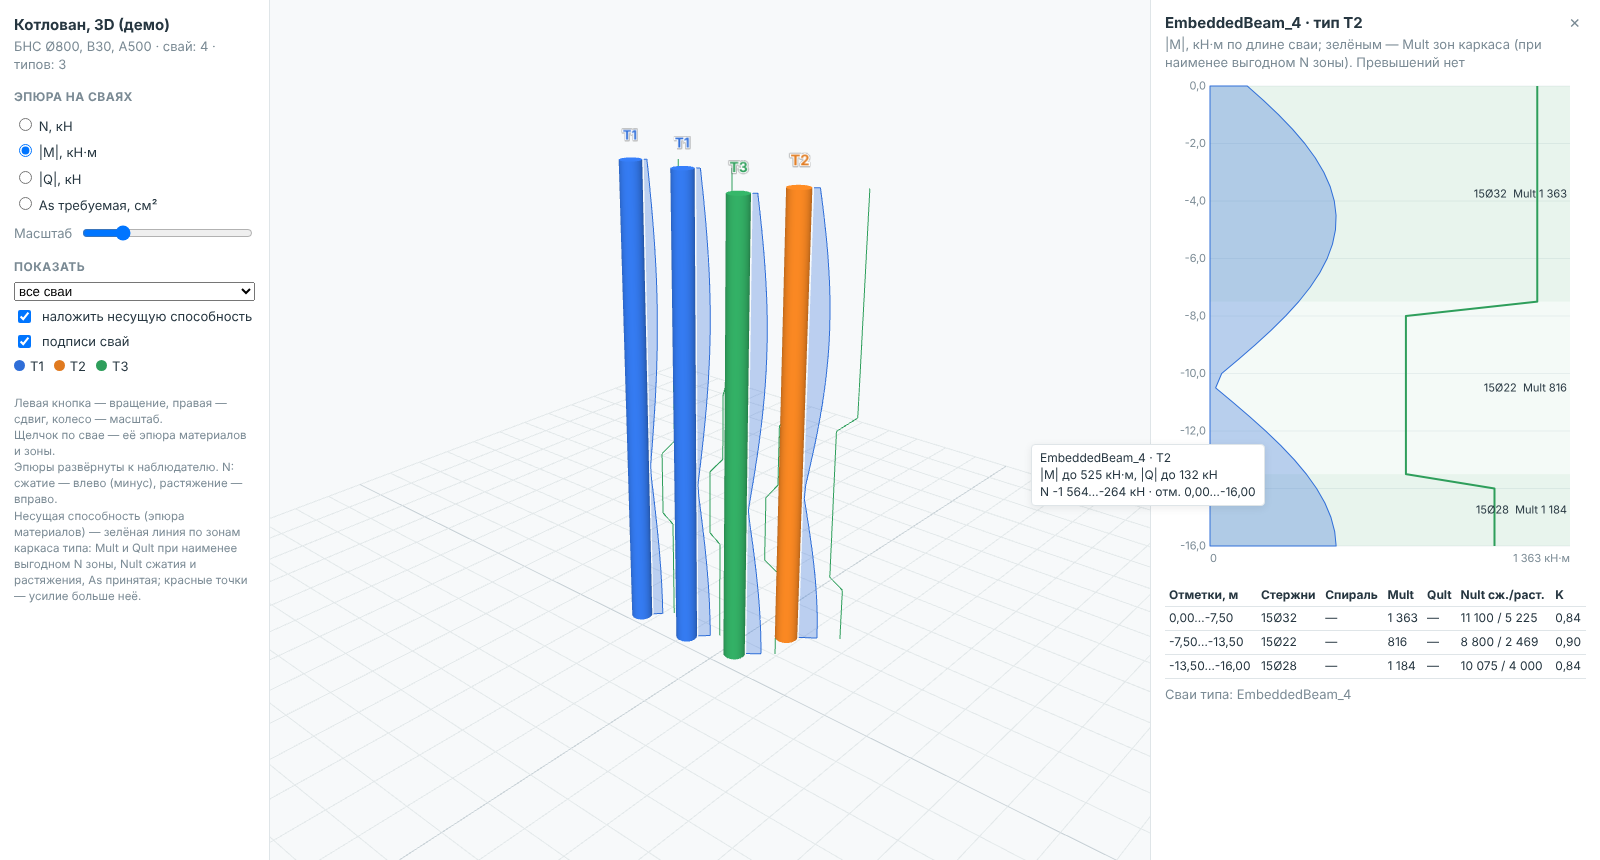
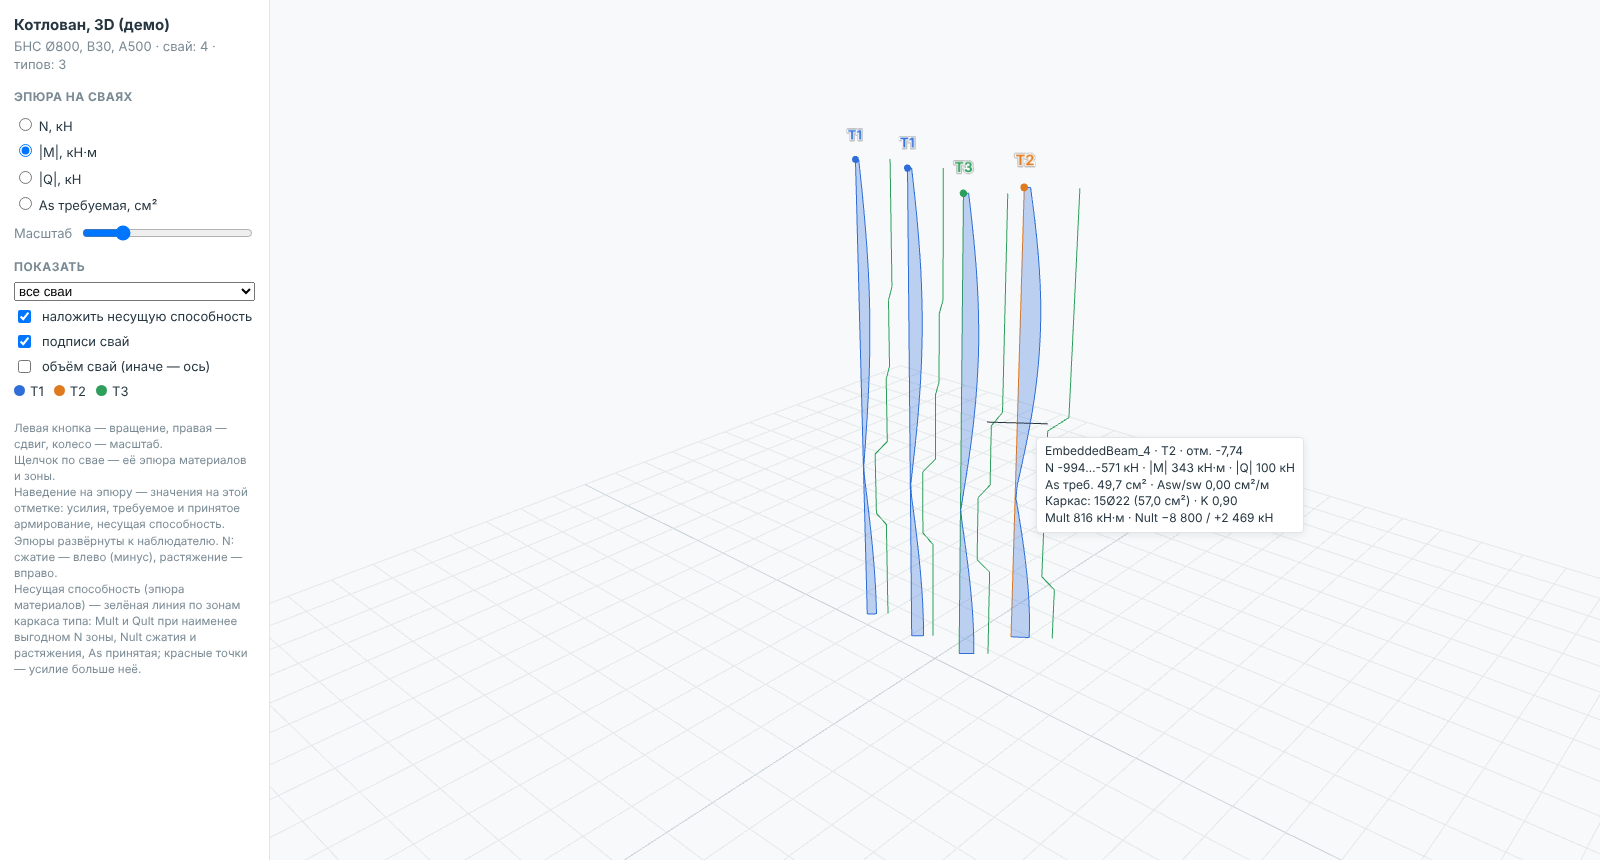
3D view: piles as axes, values under the pointer; envelope N = 0 of a pile not yet made is left out
- Piles are drawn as their axes by default (solids on a switch); diagrams
  from the axis.
- Hovering a diagram shows the level and the values there: N, |M|, |Q|,
  required As and Asw of the search interval, the cage of the zone with K,
  Mult, Qult, Nult; a tick marks the level.
- Envelopes with Nmax = 0 along the whole pile (phases before the pile was
  made in the branch) no longer pair N = 0 with Mmax (setting, on by
  default, reported in the UI).

Claude-Session: https://claude.ai/code/session_01493zrUM1r8veYKFHLaeuv4

diff --git a/src/SectionCalc/Viewer3D/viewer.html b/src/SectionCalc/Viewer3D/viewer.html
@@ -42,8 +42,10 @@
     <div class="row"><select id="typeFilter"></select></div>
     <label class="row"><input type="checkbox" id="overlay" checked> наложить несущую способность</label>
     <label class="row"><input type="checkbox" id="labels" checked> подписи свай</label>
+    <label class="row"><input type="checkbox" id="solid"> объём свай (иначе — ось)</label>
     <div class="legend" id="legend"></div>
     <div class="hint">Левая кнопка — вращение, правая — сдвиг, колесо — масштаб.<br>Щелчок по свае — её эпюра материалов и зоны.<br>
+      Наведение на эпюру — значения на этой отметке: усилия, требуемое и принятое армирование, несущая способность.<br>
       Эпюры развёрнуты к наблюдателю. N: сжатие — влево (минус), растяжение — вправо.<br>
       Несущая способность (эпюра материалов) — зелёная линия по зонам каркаса типа: Mult и Qult при наименее выгодном N зоны,
       Nult сжатия и растяжения, As принятая; красные точки — усилие больше неё.</div>
@@ -113,11 +115,17 @@ const piles = P.map((p, i) => {
     new THREE.MeshLambertMaterial({ color: new THREE.Color(p.color) }));
   const base = at(p.x, p.y, (p.head + p.tip) / 2);
   mesh.position.copy(base); mesh.userData.index = i; scene.add(mesh);
+  // By default the pile is its axis (a bar of no thickness); the solid is kept for picking.
+  const axis = new THREE.Line(new THREE.BufferGeometry().setFromPoints([at(p.x, p.y, p.head), at(p.x, p.y, p.tip)]),
+    new THREE.LineBasicMaterial({ color: new THREE.Color(p.color) }));
+  scene.add(axis);
+  const head = new THREE.Mesh(new THREE.SphereGeometry(Math.min(p.d / 2, spacing * 0.05), 12, 8), new THREE.MeshBasicMaterial({ color: new THREE.Color(p.color) }));
+  head.position.copy(at(p.x, p.y, p.head)); scene.add(head);
   const group = new THREE.Group(); group.position.copy(at(p.x, p.y, zc)); scene.add(group);
   const label = textSprite(p.type ? `Т${p.type}` : shortName(p.name), p.color);
   label.position.copy(at(p.x, p.y, p.head + Math.max(0.6, p.d)));
   scene.add(label);
-  return { data: p, mesh, group, label };
+  return { data: p, mesh, axis, head, group, label, shown: true };
 });
 
 function shortName(n) { return n.replace(/^EmbeddedBeam_/, '').replace(/^Beam_/, ''); }
@@ -147,7 +155,13 @@ function maxOf(q) {
   return m || 1;
 }
 
-function clear(group) { while (group.children.length) { const c = group.children.pop(); c.geometry?.dispose(); c.material?.dispose(); } }
+function clear(group) {
+  for (const c of [...group.children]) {
+    group.remove(c);
+    // The hover tick is shared: it moves from pile to pile.
+    if (c !== marker) { c.geometry?.dispose(); c.material?.dispose(); }
+  }
+}
 
 function polygon(group, pts, color, opacity) {
   const shape = new THREE.Shape(pts.map(([x, y]) => new THREE.Vector2(x, y)));
@@ -175,7 +189,7 @@ function rebuild() {
   for (const pile of piles) {
     clear(pile.group);
     // The diagram starts at the surface of the pile, not at its axis hidden inside.
-    const o = pile.data.d / 2 + 0.05;
+    const o = solid() ? pile.data.d / 2 + 0.05 : 0;
     const st = pile.data.stations.filter(s => q.get(s) != null).sort((a, b) => b.z - a.z);
     if (st.length < 2) continue;
     const y = s => s.z - zc;
@@ -200,6 +214,8 @@ function rebuild() {
       dots(pile.group, withCap.filter(q.over).map(s => [x(q.get(s)), y(s)]));
     }
   }
+  // The diagrams are picked for the values at the pointer.
+  piles.forEach((pile, i) => pile.group.children.forEach(c => { if (c.isMesh) c.userData.pile = i; }));
   if (selected) showDetail(selected);
 }
 
@@ -219,13 +235,19 @@ const filter = document.getElementById('typeFilter');
 filter.innerHTML = '<option value="">все сваи</option>' + DATA.types.map(t => `<option value="${t.number}">тип Т${t.number} (${t.members.length})</option>`).join('');
 filter.onchange = applyFilter;
 document.getElementById('labels').onchange = applyFilter;
+const solid = () => document.getElementById('solid').checked;
+document.getElementById('solid').onchange = () => { applyFilter(); rebuild(); };
 document.getElementById('legend').innerHTML = DATA.types.map(t => `<span data-t="${t.number}"><i style="background:${t.color}"></i>Т${t.number}</span>`).join('');
 document.querySelectorAll('#legend span').forEach(s => s.onclick = () => { filter.value = s.dataset.t; applyFilter(); });
 function applyFilter() {
   const t = filter.value, labels = document.getElementById('labels').checked;
   for (const p of piles) {
     const show = !t || String(p.data.type) === t;
-    p.mesh.visible = p.group.visible = show; p.label.visible = show && labels;
+    p.shown = show;
+    p.group.visible = show; p.label.visible = show && labels;
+    p.axis.visible = p.head.visible = show && !solid();
+    p.mesh.visible = show;
+    p.mesh.material.visible = solid();
   }
 }
 
@@ -246,10 +268,63 @@ function pick(ev) {
   const r = renderer.domElement.getBoundingClientRect();
   mouse.set(((ev.clientX - r.left) / r.width) * 2 - 1, -((ev.clientY - r.top) / r.height) * 2 + 1);
   raycaster.setFromCamera(mouse, camera);
-  const hit = raycaster.intersectObjects(piles.filter(p => p.mesh.visible).map(p => p.mesh))[0];
+  // The solid is picked also when only the axis is drawn (a thin line is hard to hit).
+  const hit = raycaster.intersectObjects(piles.filter(p => p.shown).map(p => p.mesh))[0];
   return hit ? piles[hit.object.userData.index] : null;
 }
+// Values of a pile at a level: forces interpolated between the nodes, the cage of the zone as it is.
+function valuesAt(d, z) {
+  const st = d.stations.slice().sort((a, b) => b.z - a.z);
+  let i = st.findIndex(s => s.z <= z);
+  if (i <= 0) i = i < 0 ? st.length - 1 : 0;
+  const a = st[Math.max(0, i - 1)], b = st[i];
+  const t = Math.abs(a.z - b.z) < 1e-9 ? 0 : (a.z - z) / (a.z - b.z);
+  const lerp = k => a[k] == null || b[k] == null ? (a[k] ?? b[k]) : a[k] + (b[k] - a[k]) * Math.min(1, Math.max(0, t));
+  const near = Math.abs(a.z - z) <= Math.abs(b.z - z) ? a : b;
+  // The required area belongs to the station of the search (a step), the capacity to the zone of the cage.
+  const type = DATA.types.find(t => t.number === d.type);
+  const zone = type?.zones.find(zz => z <= zz.top + 1e-6 && z >= zz.bottom - 1e-6);
+  const step = d.steps?.find(st => z <= st.top + 1e-6 && z > st.bottom + 1e-6) ?? d.steps?.[d.steps.length - 1];
+  return { z, nmin: lerp('nmin'), nmax: lerp('nmax'), m: lerp('m'), q: lerp('q'), as: step?.as ?? near.as, asw: step?.asw ?? near.asw, zone,
+           asp: zone?.as, mult: zone?.mult, qult: zone?.qult, nultc: zone?.nultc, nultt: zone?.nultt };
+}
+const marker = new THREE.Line(new THREE.BufferGeometry().setFromPoints([new THREE.Vector3(0, 0, 0.004), new THREE.Vector3(1, 0, 0.004)]),
+  new THREE.LineBasicMaterial({ color: 0x263640 }));
+marker.visible = false;
+
+function hoverDiagram(ev) {
+  const r = renderer.domElement.getBoundingClientRect();
+  mouse.set(((ev.clientX - r.left) / r.width) * 2 - 1, -((ev.clientY - r.top) / r.height) * 2 + 1);
+  raycaster.setFromCamera(mouse, camera);
+  const meshes = piles.filter(p => p.shown).flatMap(p => p.group.children.filter(c => c.isMesh && c.userData.pile != null));
+  const hit = raycaster.intersectObjects(meshes)[0];
+  if (!hit) return null;
+  const pile = piles[hit.object.userData.pile];
+  const local = pile.group.worldToLocal(hit.point.clone());
+  return { pile, local, v: valuesAt(pile.data, local.y + zc) };
+}
+
 renderer.domElement.addEventListener('mousemove', ev => {
+  const h = hoverDiagram(ev);
+  if (h) {
+    // The pointer on a diagram: the values at its level.
+    const { pile, v } = h, d = pile.data;
+    const zone = v.zone;
+    let text = `${d.name}${d.type ? ' · Т' + d.type : ''} · отм. ${ru(v.z, 2)}\n`
+      + `N ${ru(v.nmin)}…${ru(v.nmax)} кН · |M| ${ru(v.m)} кН·м · |Q| ${ru(v.q)} кН`;
+    if (v.as != null) text += `\nAs треб. ${ru(v.as, 1)} см²` + (v.asw != null ? ` · Asw/sw ${ru(v.asw, 2)} см²/м` : '');
+    if (zone) text += `\nКаркас: ${zone.bars} (${ru(zone.as, 1)} см²)` + (zone.spiral ? `, спираль Ø${zone.spiral}` : '') + (zone.k != null ? ` · K ${ru(zone.k, 2)}` : '');
+    if (v.mult != null) text += `\nMult ${ru(v.mult)} кН·м` + (v.qult != null ? ` · Qult ${ru(v.qult)} кН` : '') + ` · Nult −${ru(v.nultc)} / +${ru(v.nultt)} кН`;
+    tip.textContent = text;
+    tip.style.display = 'block'; tip.style.left = ev.clientX + 14 + 'px'; tip.style.top = ev.clientY + 14 + 'px';
+    // A tick across the diagram at the level.
+    if (marker.parent !== pile.group) pile.group.add(marker);
+    const span = Math.max(1, ...pile.group.children.filter(c => c.isMesh).map(c => { c.geometry.computeBoundingBox(); return Math.max(Math.abs(c.geometry.boundingBox.max.x), Math.abs(c.geometry.boundingBox.min.x)); }));
+    marker.geometry.setFromPoints([new THREE.Vector3(-span, h.local.y, 0.004), new THREE.Vector3(span, h.local.y, 0.004)]);
+    marker.visible = true;
+    return;
+  }
+  marker.visible = false;
   const p = pick(ev);
   if (!p) { tip.style.display = 'none'; return; }
   const s = p.data.stations;

diff --git a/src/SectionApp/ViewModels/ProfileViewModel.cs b/src/SectionApp/ViewModels/ProfileViewModel.cs
@@ -260,6 +260,8 @@ public partial class ProfileViewModel : ObservableObject
     bool syncing;
     [ObservableProperty] string momentSignText = "";
     [ObservableProperty] bool ignoreAxialForce;
+    [ObservableProperty] bool skipInactiveZeroN = true;
+    [ObservableProperty] string zeroNText = "";
     public ObservableCollection<PeakCutViewModel> PeakCuts { get; } = [];
     [ObservableProperty] bool confirmed;
     public bool IsWall => Scenario == ProfileScenario.Wall;
@@ -301,7 +303,7 @@ public partial class ProfileViewModel : ObservableObject
         if (!loading && e.PropertyName is nameof(ForceUnit) or nameof(LengthUnit) or nameof(PileSpacing) or nameof(StationStep)
                 or nameof(MinPercent) or nameof(ServiceDivisor) or nameof(SustainedShare) or nameof(MomentSignIndex) or nameof(Confirmed)
                 or nameof(IgnoreAxialForce) or nameof(ExcavationIndex) or nameof(AlignPileHeads) or nameof(PanelWidth) or nameof(ModeIndex)
-                or nameof(TypeCount))
+                or nameof(TypeCount) or nameof(SkipInactiveZeroN))
             Changed();
     }
 
@@ -312,7 +314,7 @@ public partial class ProfileViewModel : ObservableObject
         ForceUnit = s.ForceUnit; LengthUnit = s.LengthUnit; PileSpacing = S(s.PileSpacingM); StationStep = S(s.StationStepM);
         MinPercent = S(s.MinPercent); ServiceDivisor = S(s.ServiceDivisor); SustainedShare = S(s.SustainedShare);
         MomentSignIndex = s.MomentSign > 0 ? 0 : 1; Confirmed = s.Confirmed; IgnoreAxialForce = s.IgnoreAxialForce;
-        ExcavationIndex = Excavation(s.ExcavationSide); AlignPileHeads = s.AlignPileHeads;
+        ExcavationIndex = Excavation(s.ExcavationSide); AlignPileHeads = s.AlignPileHeads; SkipInactiveZeroN = s.SkipInactiveZeroN;
         ScenarioIndex = (int)s.Scenario; ModeIndex = (int)s.Mode; TypeCount = s.TypeCount.ToString(CultureInfo.InvariantCulture);
         PanelWidth = S(s.PanelWidthM > 0 ? s.PanelWidthM : project.Section.Wall.WidthMm / 1000);
         PeakCuts.Clear();
@@ -346,7 +348,7 @@ public partial class ProfileViewModel : ObservableObject
         s.MinPercent = D(MinPercent, "Минимальное армирование"); s.ServiceDivisor = D(ServiceDivisor, "γf для нормативных");
         s.SustainedShare = D(SustainedShare, "kдл");
         s.MomentSign = MomentSignIndex == 0 ? 1 : -1; s.Confirmed = Confirmed; s.IgnoreAxialForce = IgnoreAxialForce;
-        s.ExcavationSide = ExcavationIndex switch { 1 => 1, 2 => -1, _ => 0 }; s.AlignPileHeads = AlignPileHeads;
+        s.ExcavationSide = ExcavationIndex switch { 1 => 1, 2 => -1, _ => 0 }; s.AlignPileHeads = AlignPileHeads; s.SkipInactiveZeroN = SkipInactiveZeroN;
         s.Scenario = Scenario; s.Mode = (ProfileMode)ModeIndex;
         if (IsTyping)
         {
@@ -385,6 +387,8 @@ public partial class ProfileViewModel : ObservableObject
         {
             forces = ForceProfile.Build(project);
             Errors = "";
+            ZeroNText = forces.InactiveZeroN.Count == 0 ? ""
+                : $"Nmax огибающей = 0 по всей длине: {forces.InactiveZeroN.Count} (свая, ветка) — стадии до устройства сваи; угол «N = 0 с Mmax» не учтён";
             var extremes = ForceProfile.PhaseExtremes(project);
             foreach (var row in Phases)
                 row.Extremes = extremes.TryGetValue(row.Setting.Id, out var x)

diff --git a/src/SectionCalc/Profile/ForceProfile.cs b/src/SectionCalc/Profile/ForceProfile.cs
@@ -36,6 +36,8 @@ public sealed class ForceProfile
     public IReadOnlyList<PileInfo> Piles { get; init; } = [];
     public bool Is3D { get; init; }
     public bool IsGroup => Piles.Count > 1;
+    /// <summary>Element (and branch) whose envelope Nmax = 0 along all its length was taken as a phase before it was made.</summary>
+    public IReadOnlyList<string> InactiveZeroN { get; init; } = [];
     /// <summary>A wall: M has a sign (faces); a pile: the bending moment is taken by its magnitude.</summary>
     public bool IsWall { get; init; }
     public double Length => TopLevel - BottomLevel;
@@ -97,11 +99,23 @@ public sealed class ForceProfile
         double nf = f / l * width, mf = f * width;
         if (is3D) (nf, mf) = (f, f * l); // per pile: F and F·L
         static double Abs2(double a, double b) => Math.Max(Math.Abs(a), Math.Abs(b));
+        // Envelopes with Nmax = 0 along the whole element: a phase before it was made; use Nmin for both corners.
+        int nMinAt = is3D ? 3 : 2, nMaxAt = is3D ? 4 : 3;
+        var zeroN = new List<string>();
         foreach (var series in used)
         {
             int pile = pileIndex[pileOf[series.Object]];
-            foreach (var n in series.Nodes)
+            bool inactiveZero = src.IsEnvelope && s.SkipInactiveZeroN && series.Nodes.Count > 0
+                && series.Nodes.All(n => Math.Abs(n[nMaxAt]) < 1e-9) && series.Nodes.Any(n => n[nMinAt] < -1e-9);
+            if (inactiveZero)
             {
+                string name = $"{piles[pile].Name} ({p.Phases.FirstOrDefault(x => x.Id == series.Phase)?.Name})";
+                if (!zeroN.Contains(name)) zeroN.Add(name);
+            }
+            foreach (var raw in series.Nodes)
+            {
+                var n = raw;
+                if (inactiveZero) { n = (double[])raw.Clone(); n[nMaxAt] = n[nMinAt]; }
                 double level = n[zi] * l + piles[pile].Shift;
                 if (is3D && !src.IsEnvelope)
                 {
@@ -142,7 +156,7 @@ public sealed class ForceProfile
             Samples = samples, Envelope = EnvelopeOf(samples), OriginalEnvelope = original,
             TopLevel = samples.Max(x => x.Level), BottomLevel = samples.Min(x => x.Level),
             X = piles.Average(x => x.X), ElementKind = kind, ForceScale = f * width, IsEnvelope = src.IsEnvelope,
-            Piles = piles, Is3D = is3D, IsWall = scenario == ProfileScenario.Wall,
+            Piles = piles, Is3D = is3D, IsWall = scenario == ProfileScenario.Wall, InactiveZeroN = zeroN,
         };
     }
 

diff --git a/src/SectionCalc/Profile/SceneExport.cs b/src/SectionCalc/Profile/SceneExport.cs
@@ -129,7 +129,7 @@ public static class SceneExport
                 };
                 if (demand is not null)
                 {
-                    int k = Nearest(demand.Stations, e.Level);
+                    int k = Containing(demand.Stations, e.Level);
                     o["as"] = R(demand.As[k] / 100, 2);
                     o["asw"] = double.IsFinite(demand.Asw[k]) ? R(demand.Asw[k], 2) : null;
                 }
@@ -155,6 +155,12 @@ public static class SceneExport
                 ["name"] = info.Name, ["x"] = R(info.X, 3), ["y"] = R(info.Y, 3), ["head"] = R(info.Head, 3), ["tip"] = R(info.Tip, 3),
                 ["type"] = type?.Number, ["color"] = type is null ? "#9aa7b0" : Hex(type.Number), ["d"] = diameter,
                 ["stations"] = stations,
+                // The intervals of the search: the required area holds over each of them.
+                ["steps"] = demand is null ? null : new JsonArray(demand.Stations.Select((st, k) => (JsonNode)new JsonObject
+                {
+                    ["top"] = R(st.Top, 3), ["bottom"] = R(st.Bottom, 3), ["as"] = R(demand.As[k] / 100, 2),
+                    ["asw"] = double.IsFinite(demand.Asw[k]) ? R(demand.Asw[k], 2) : null,
+                }).ToArray()),
             });
         }
         var types = new JsonArray((r?.Types ?? []).Select(t => (JsonNode)new JsonObject
@@ -180,6 +186,14 @@ public static class SceneExport
                 : $"СВГ {p.Section.Wall.WidthMm:0}×{p.Section.Wall.ThicknessMm:0}",
             ["piles"] = piles, ["types"] = types,
         };
+    }
+
+    /// <summary>The station whose interval holds the level (the upper one at a boundary); the nearest otherwise.</summary>
+    static int Containing(IReadOnlyList<Station> st, double level)
+    {
+        for (int i = 0; i < st.Count; i++)
+            if (level <= st[i].Top + 1e-6 && level > st[i].Bottom + 1e-6) return i;
+        return Nearest(st, level);
     }
 
     static int Nearest(IReadOnlyList<Station> st, double level)

diff --git a/tests/SectionCalc.Tests/ProfileTests.cs b/tests/SectionCalc.Tests/ProfileTests.cs
@@ -660,4 +660,23 @@ public class ProfileTests(ITestOutputHelper output)
         }
         finally { (PileTyping.GridN, PileTyping.GridM) = (gn, gm); }
     }
+
+    [Fact]
+    public void EnvelopeZeroNmaxOfAnInactivePhaseIsLeftOut()
+    {
+        // Pile 1: the envelope of its branch includes phases before the pile was made — Nmax = 0 along all of it.
+        var e = GroupExport(envelope: true);
+        foreach (var series in e.Data.Where(d => d.Object is 0 or 1))
+            foreach (var n in series.Nodes) n[4] = 0;
+        var p = new ProfileProject { Section = SectionProject.Example(SectionKind.Pile) };
+        p.UseSource(e);
+        var f = ForceProfile.Build(p);
+        Assert.Contains(f.InactiveZeroN, x => x.StartsWith("EmbeddedBeam_1"));
+        Assert.DoesNotContain(f.Samples, x => x.Pile == 0 && x.N == 0);
+        // Switched off: the corner N = 0 with Mmax is kept.
+        p.Settings.SkipInactiveZeroN = false;
+        var g = ForceProfile.Build(p);
+        Assert.Empty(g.InactiveZeroN);
+        Assert.Contains(g.Samples, x => x.Pile == 0 && x.N == 0);
+    }
 }

diff --git a/src/SectionCalc/Profile/ProfileModel.cs b/src/SectionCalc/Profile/ProfileModel.cs
@@ -93,6 +93,11 @@ public sealed class ProfileSettings
     public double SustainedShare { get; set; } = 1;
     /// <summary>Axial force not taken into account (N = 0): on the safe side for bending when N is uncertain.</summary>
     public bool IgnoreAxialForce { get; set; }
+    /// <summary>
+    /// Envelopes: Nmax = 0 along the whole element with compression in Nmin is a phase of the branch before the element
+    /// was made (inactive, no force); the corner «N = 0 with Mmax» is then left out.
+    /// </summary>
+    public bool SkipInactiveZeroN { get; set; } = true;
     public List<PeakCut> PeakCuts { get; set; } = [];
     /// <summary>Upper bound of the search: bar diameter of the adopted layout, mm.</summary>
     public double MaxBarDiameterMm { get; set; } = 40;

diff --git a/docs/profile-module.md b/docs/profile-module.md
@@ -81,6 +81,10 @@
      отрицательные моменты относятся к своим граням. Программа определяет его по прогибу Ux
      (выпуклая грань растянута) и пишет долю совпавших узлов; при малой доле — проверьте по Output;
    - «Не учитывать N» — N = 0 во всех РСУ (в запас при изгибе, когда N ограждения не определено);
+   - «Nmax = 0 огибающей — свая ещё не устроена» (по умолчанию включено): огибающая ветки охватывает и
+     стадии до устройства сваи, где N = 0; если Nmax = 0 по всей длине при сжатии в Nmin, пара
+     «N = 0 с Mmax» (изгиб без сжатия) не учитывается — иначе армирование сжатых свай завышается.
+     Под галочкой — сколько таких свай (веток). Точнее всего — «Усилия выбранных стадий»: N, M, Q одновременны;
    - «Поперечная арматура (проверка Q)» — та же настройка, что в «Сечение» → Расчёт (там шаг и
      ветви); нужно подтвердить конструктивные требования, иначе Q не проверяется и Asw — «—»;
    - **срезка пиков** M и/или Q (на ответственность инженера): зоны «от — до отметки», по хорде
@@ -165,6 +169,9 @@
   усилие больше несущей способности;
 - щелчок по свае — справа её эпюра выбранной величины с наложением, зоны типа и таблица зон
   (стержни, спираль, Mult, Qult, Nult, K).
+- **наведение на эпюру** — значения на этой отметке (риска поперёк эпюры): N min…max, |M|, |Q|,
+  требуемые As и Asw/sw (интервала подбора), каркас зоны (стержни, спираль, K), Mult, Qult, Nult зоны;
+- сваи — осями (балка нулевой толщины), «объём свай» — цилиндрами диаметра сваи.
 
 Несущая способность считается ядром CScore (прочность нормального сечения без η — Mult и Nult;
 наклонное сечение и полоса со спиралью зоны — Qult; нужна проверка Q с подтверждением конструктивных
